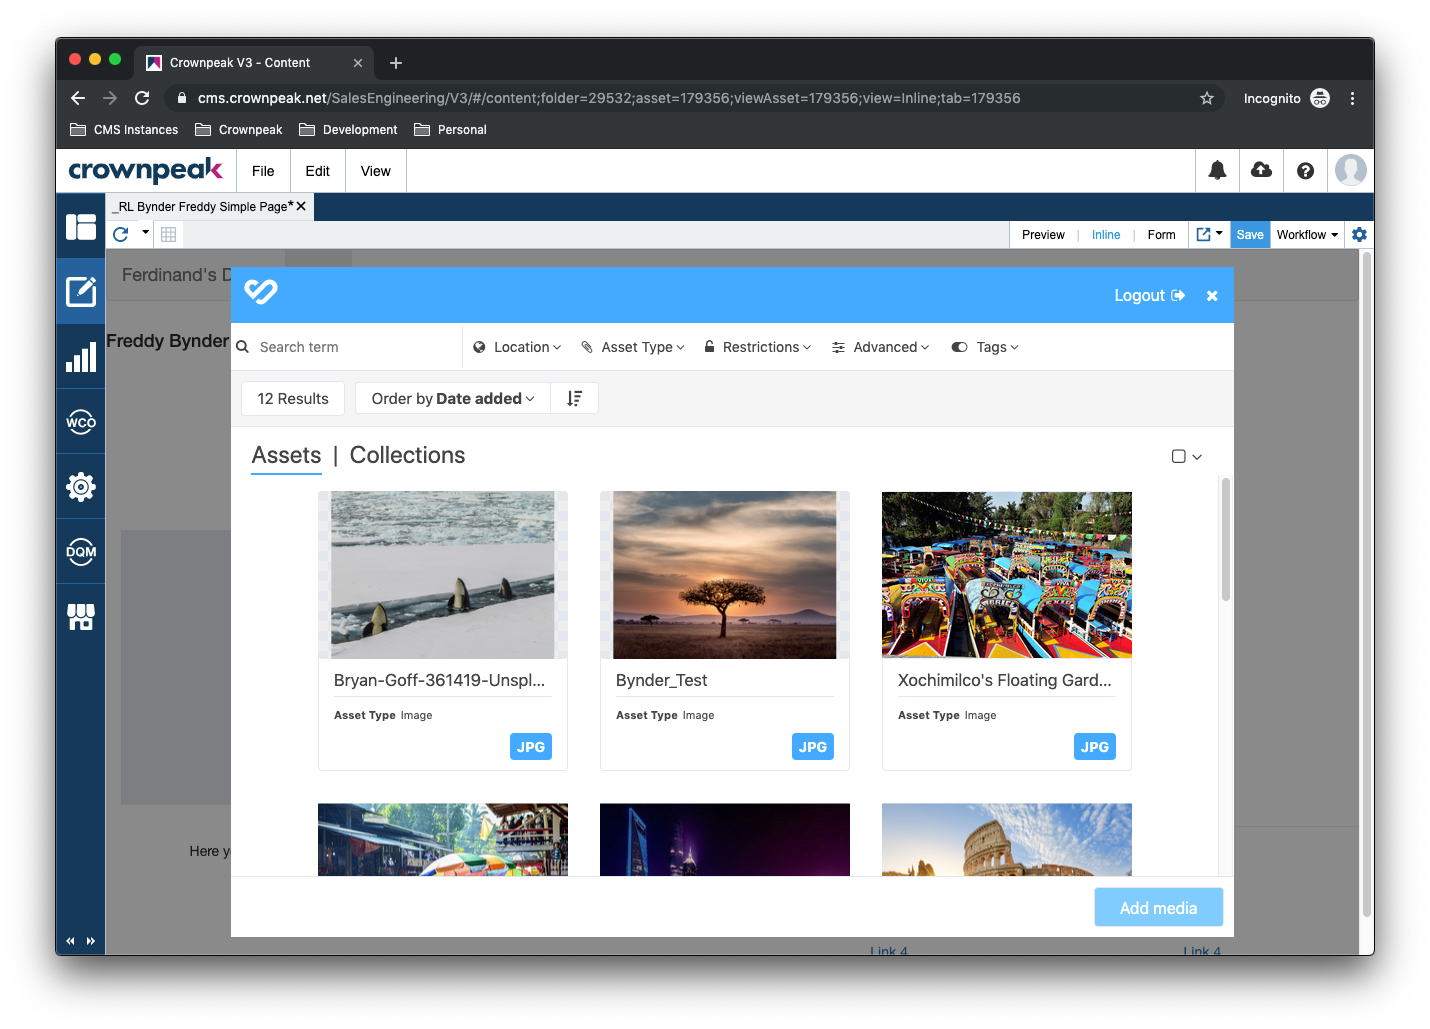
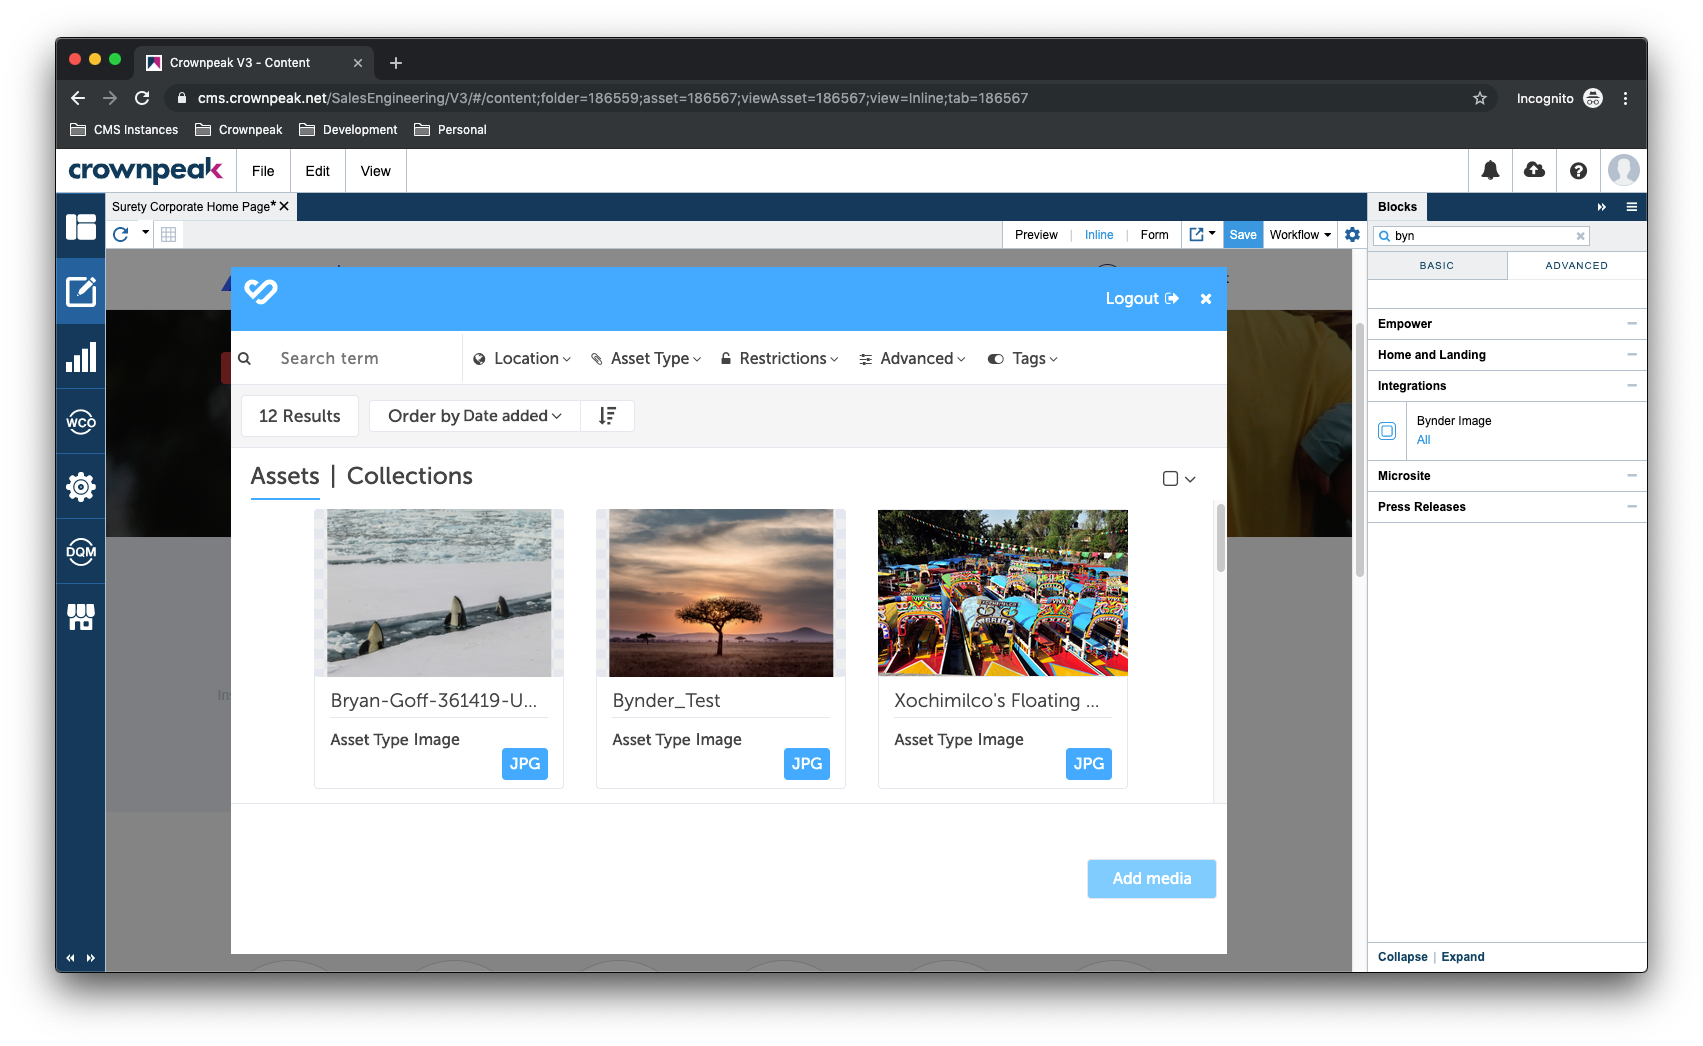
Updated Bynder screenshots. Added video.

diff --git a/Digital-Asset-Management-(DAM)/Bynder/README.md b/Digital-Asset-Management-(DAM)/Bynder/README.md
@@ -7,6 +7,8 @@ digital asset flow from creation to approval, to deliver consistent content acro
 This integration allows a DXM content author to use a Draggable-Component, populated by Bynder, to be used within a
 DXM-generated experience.
 
+<a href="https://view.vzaar.com/20864268/player" target="_blank">![Bynder Integration Video](../../images/screenshots/Bynder/bynder-video-title.png?raw=true "Bynder Integration Video")</a>
+
 ## Capabilities
 The Bynder Integration for DXM allows content authors to use a Bynder "aware" Component to enhance their digital
 experience.
